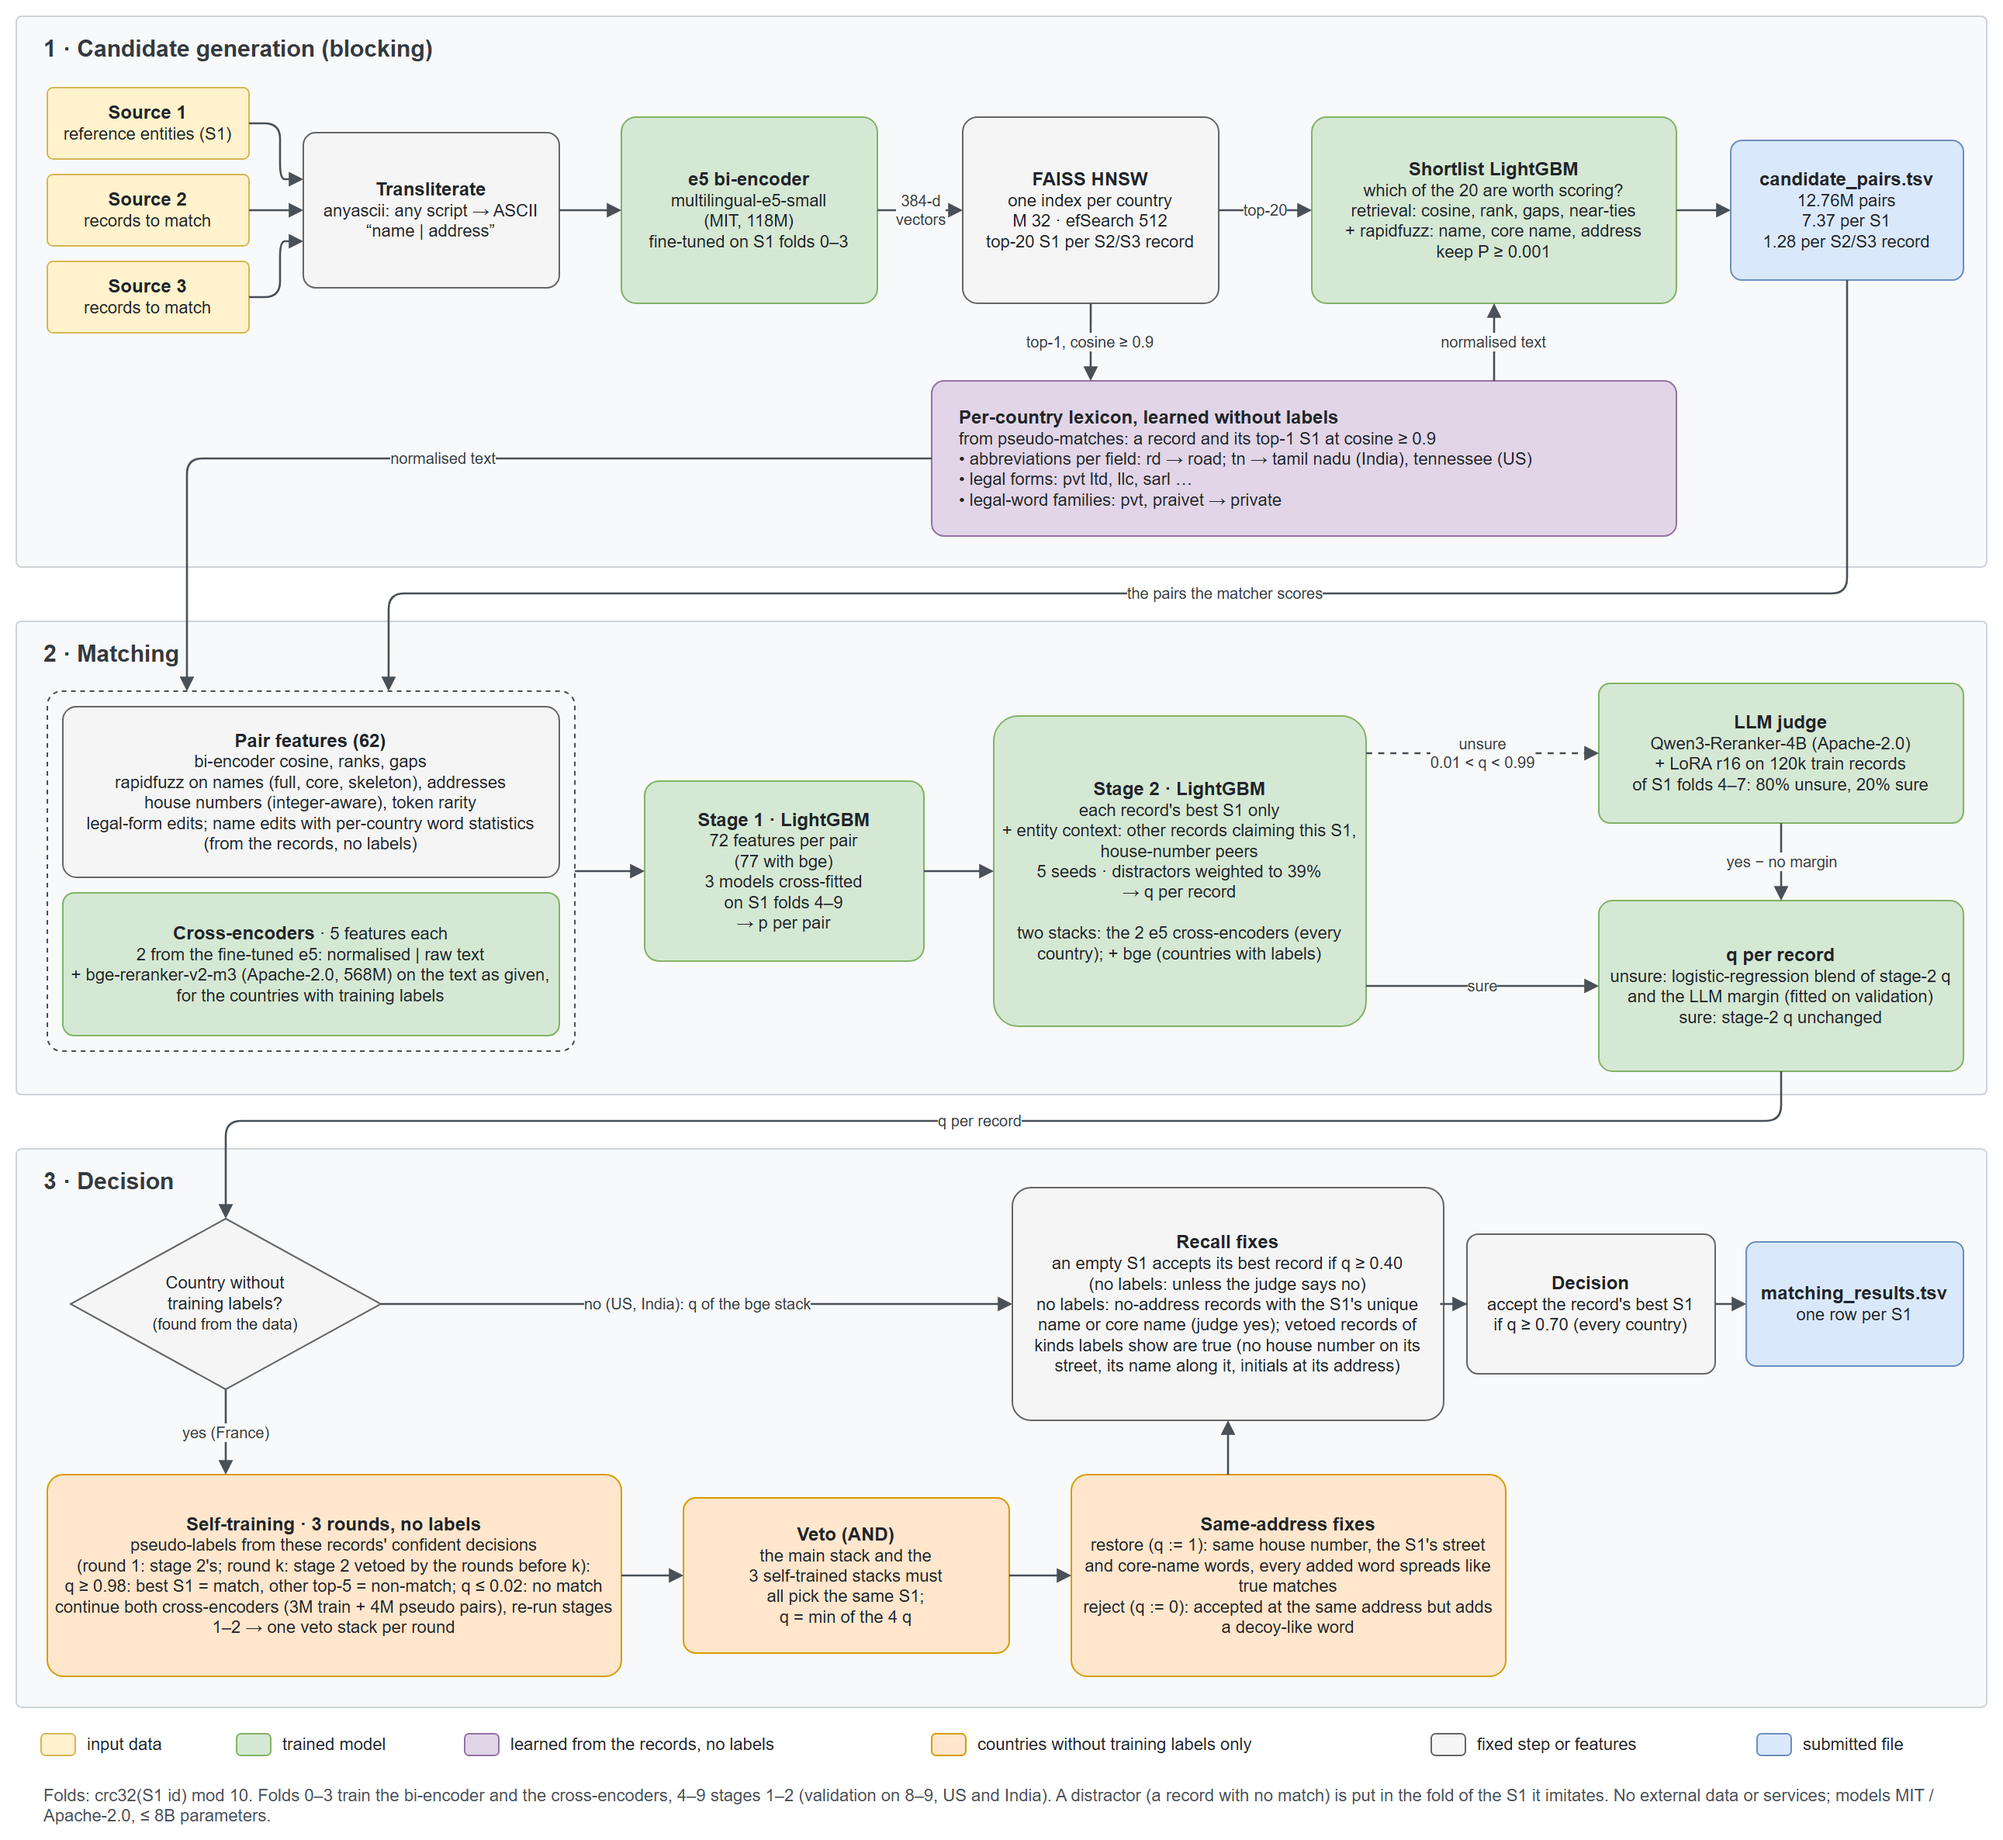
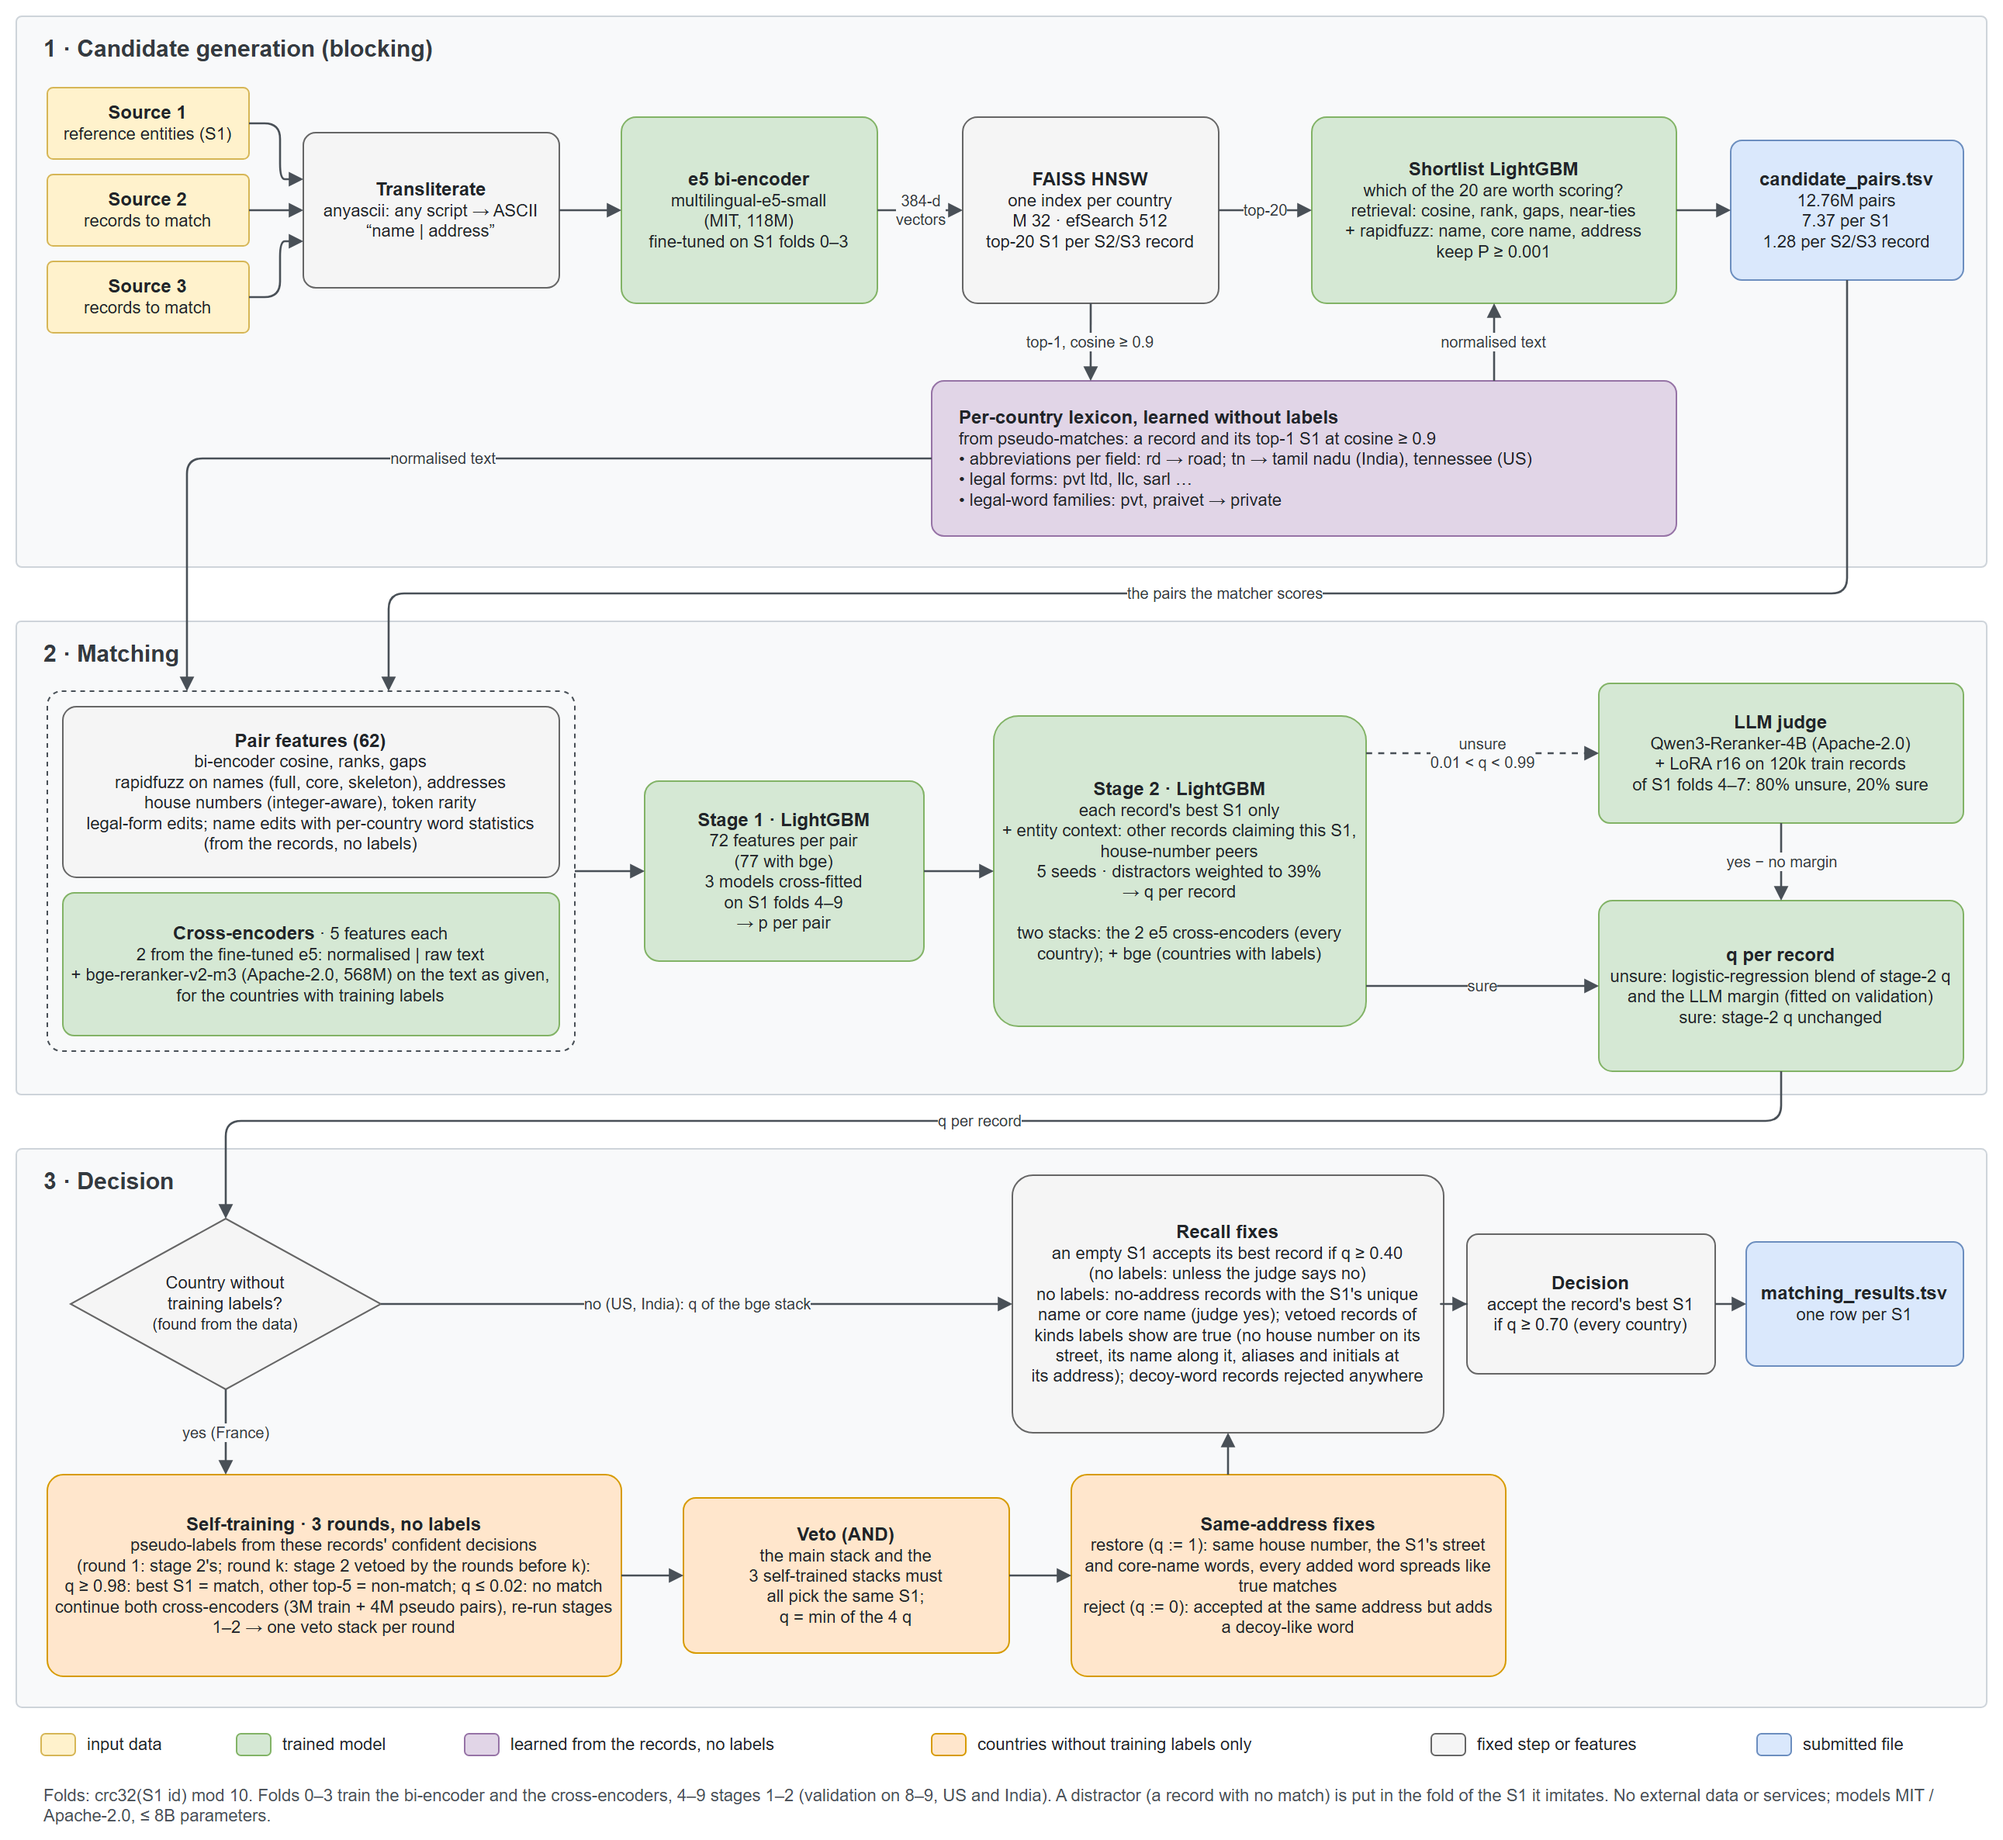
README, documentation and figure for C8 (leaderboard 0.99091): aliases, initials, decoy-word rejects

Changed region(s): [[0.4957, 0.6551, 0.7126, 0.7799]]

diff --git a/ber/Documentation_template.md b/ber/Documentation_template.md
@@ -17,8 +17,9 @@ training labels), and a LoRA-tuned 4B reranker judges the unsure records. France
 three self-training rounds, used only as vetoes, and label-free fixes derived from how the data places decoys at house
 numbers. Last, recall fixes fill S1s left empty and, for France, restore records the self-training vetoes rejected where the
 labelled countries show that kind of record is almost always a true match (no address or no house number with the S1's
-unique name or street, the exact name further along the S1's street, initials at its address). Macro F0.5 is **0.9930
-on US / India validation** and **0.99084 on the public leaderboard**.
+unique name or street, the exact name further along the S1's street, made-up aliases and initials at its address),
+and reject records adding a decoy word away from the S1's address. Macro F0.5 is **0.9930 on US / India validation**
+and **0.99091 on the public leaderboard**.
 
 ---
 
@@ -174,6 +175,7 @@ about. We kept P ≥ 0.001.
 | Same-address fixes (countries without labels) | label-free census: each S1 gets a roughly fixed number of decoys, normally at one shifted number, so a decoy placed at the S1's *own* address leaves that shifted cluster short. For every word records add at the S1's address, we compare how many of the S1's records sit at other numbers, between those records and unedited ones (total variation distance TV). **True-like** (TV ≤ 0.10): a structurally matching record (same number and sub-number, the S1's distinctive street words, first and rarest core-name word) adding only such words is restored. **Decoy-like** (TV ≥ 0.20): an accepted same-address record adding one is rejected | the test records' own structure. On US / India validation, TV ≤ 0.10 words are 98.7% / 90.8% true and TV ≥ 0.20 words 22.5% true (India) |
 | Recall fixes | **Empty S1s:** an S1 with no accepted record takes its best candidate if q ≥ 0.40 (every country; for the countries without labels only if the LLM judge does not say no, since the candidates it rejects there are mostly a type word swapped at the S1's own address). **No-address records (countries without labels):** a rejected record with no address whose normalised name equals its S1's and no other S1's of the country, and that the judge accepts, is restored | US / India validation: the empty-S1 rule +0.00007 at 0.40; every threshold from 0.4 to 0.65 gains when cross-fitted over the two validation folds. No-address records with the S1's exact, unique name: US / India models accept 93–97%, France's 84% (its self-training vetoes learned "no address = reject") |
 | Recall fixes: vetoed records | **Countries without labels:** a record the main stack accepts and a self-trained stack vetoes is restored when it is one of these kinds: an address without a house number on the S1's street or with a name no other S1 has (judge margin ≥ 2); the S1's exact name at another number of its street (judge yes), unless another candidate S1 sits 1–13 numbers below it there; at the S1's exact address, the only S1 there, a name that adds no word (initials, a website, dropped words). Also a no-address record with the S1's core name that no other S1 has (judge yes) | On US / India validation these kinds are 89–100% true and the models accept them; a same-name record sitting 1–13 numbers above another candidate S1 is that S1's decoy (0% true), and the model's own rejections of these kinds are 75–99% wrong records, so only vetoes are undone. France: +2,916 matches, leaderboard 0.990807 → 0.99084 |
+| Recall fixes: aliases, initials, decoy words | **Countries without labels,** at the S1's exact address with no other S1 there: a made-up name sharing nothing with the S1's (a word of 4+ letters in no S1 name) when the main stack's q ≥ 0.80, or q ≥ 0.10 with at most 2 made-up names at the S1; the S1's initials even where the main stack rejected them. And a record adding a decoy-like word of the census is rejected at any position, not only at the S1's house number | US / India validation: such aliases are 97–99.8% true at q ≥ 0.8, ~90% at 0.1–0.8 with the guard, 0% below 0.1; initials at the exact address 100%; decoy-like words ~22%. France: +392 restores, −157 rejects; leaderboard 0.99084 → 0.99091 |
 
 The same-address fixes and the no-address restores run only where labels are missing. Where labels exist, the models
 already get these records right, and the same-address fixes would cost India 0.0024 (checked with labels).
@@ -191,7 +193,7 @@ singletons) gained +0.00000, and an expected-F0.5 decision per S1 gained +0.0000
 - **F_0.5 Score (macro):**
     - validation (US / India): **0.9930** with the bge stack, the LLM judge and the empty-S1 rule (0.99294 without the
       rule; 0.99282 for the two-cross-encoder stack with the judge; 0.99262 for its stage 2 alone);
-    - public leaderboard: **0.99084**.
+    - public leaderboard: **0.99091**.
     - France has no labels. If US / India score on the leaderboard about as on validation, the leaderboard implies a
       France F0.5 of roughly 0.98.
 
@@ -233,7 +235,8 @@ pairs) or lost to another S1 as the record's best (0.84%) are not in it.
       `EL`). The recall fixes restored 2,508 such records and filled 344 empty France S1s (923 in US / India); with the
       bge stack for US / India, the leaderboard rose from 0.990349 to 0.990807. Restoring vetoed records of the kinds
       above (no house number on the S1's street, the exact name along its street, initials at its address) and
-      no-address records with a unique core name added 2,916 France matches: **0.99084**.
+      no-address records with a unique core name added 2,916 France matches: 0.99084. Made-up aliases and initials at
+      the S1's exact address (+392) and decoy-word records rejected away from it (−157): **0.99091**.
 
 The largest remaining loss (+0.00208) is information-limited: the missing address cannot be recovered, and per-bucket
 thresholds did not help. For scale, fixing all three error types in the table gives about 0.9957; that is not an
@@ -278,7 +281,7 @@ AMLC_ROOT=/folder/with/student_resource GPU_A=0 GPU_B=1 GPU_C=2 bash reproduce.s
 | Stage 1 (cross-fitted); stage 2 with entity context and peers | `stage1_cv.py`, `x_stage_multi.py`, `stage2.py`, `x_nocopy.py`, `decide.py` |
 | LLM judge and blend | `x_llm.py`, `x_llmstack.py` |
 | Same-address fixes (countries without labels) | `x_anatomy.py`, `wstat.py`, `rule_fr.py`, `x_ddfix.py` |
-| Recall fixes (empty S1s; no-address records; vetoed records of safe kinds) | `x_recall.py` |
+| Recall fixes (empty S1s; no-address records; vetoed records of safe kinds; aliases, initials; decoy words) | `x_recall.py` |
 | Vetoes, fixes, threshold → the two TSV files | `x_final.py` |
 
 - **Hardware and time:** three A100 80GB GPUs (one works; lanes share it), ~64 CPU cores, ~250 GB RAM; about 9–10 h
@@ -313,7 +316,8 @@ AMLC_ROOT=/folder/with/student_resource GPU_A=0 GPU_B=1 GPU_C=2 bash reproduce.s
 | v10_fr3_llm_dd | + same-address census fixes | = | 0.99028 |
 | variant_v10seed_dd | France rounds seeded from the main stack itself; judge on every unsure record | 0.99282² | 0.99035 |
 | E16fr3 | + bge cross-encoder for the countries with labels; recall fixes (empty S1s, no-address records) | 0.9930² | 0.990807 |
-| **submitted** | + France recall fixes for vetoed records of safe kinds, unique core names (Section 4) | **0.9930²** | **0.99084** |
+| C4 | + France recall fixes for vetoed records of safe kinds, unique core names (Section 4) | 0.9930² | 0.99084 |
+| **submitted** | + aliases and initials at the S1's exact address; decoy-word records rejected anywhere (Section 4) | **0.9930²** | **0.99091** |
 
 ¹ With duplicated distractors (inflated). ² The harder validation set (each distractor in its S1's fold).
 

diff --git a/ber/README.md b/ber/README.md
@@ -1,7 +1,7 @@
 # Business Entity Resolution
 
 Match every Source 2 / Source 3 record to the Source 1 (reference) entity it belongs to, scored by macro F0.5.
-This folder holds only the code that builds our submitted file (**leaderboard 0.99084**) and `reproduce.sh`, which
+This folder holds only the code that builds our submitted file (**leaderboard 0.99091**) and `reproduce.sh`, which
 runs it end to end from the provided data.
 
 ## Pipeline
@@ -70,6 +70,14 @@ country or a language.
      US / India); at the S1's exact address, the only S1 there, a name that adds no word (initials, a website, dropped
      words). Also no-address records with the S1's core name (legal form differs) that no other S1 has, judge yes.
      France: 1,182 + 563 + 161 + 1,078 restores (+2,916 matches), leaderboard +0.00003.
+   - *Aliases and initials at the S1's exact address, countries without labels* (the only S1 there): a made-up name
+     sharing nothing with the S1's name (a word of 4+ letters in no S1 name of any country: the generator's
+     unrelated-DBA noise) when the main stack's q ≥ 0.80, or q ≥ 0.10 with at most 2 made-up names at the S1 (US /
+     India validation 97–99.8% / ~90% true; below 0.10 they are 0% true); and the S1's initials there even where the
+     main stack rejected them (US / India: 100% true). France: 336 aliases, 56 more initials.
+   - *Decoy words anywhere, countries without labels* (`reject_decword`): a record adding a decoy-like word of the
+     census (step 8: the same-building type-word swap, ~22% true on US / India) is rejected at any position, not only
+     at the S1's house number (157 France matches). With these two, the leaderboard rose from 0.99084 to 0.99091.
 10. **Decision** (`x_final.py`): accept a record when its score is ≥ 0.70, the same threshold for every country.
 
 Folds: `crc32(S1 id) % 10`; 0–3 train the bi-encoder and the cross-encoders, 4–9 stages 1 and 2; stage 2 is validated
@@ -80,7 +88,8 @@ on entity folds 8–9 after fitting on 4–7 (US / India validation F0.5 0.99294
 
 | File | Score |
 |---|---|
-| **C4** (submitted; this pipeline) | **0.99084** |
+| **C8** (submitted; this pipeline) | **0.99091** |
+| C4 (without the alias, initials and decoy-word lists of step 9) | 0.99084 |
 | E16fr3 (without the vetoed-record and core-name lists of step 9) | 0.990807 |
 | variant_v10seed_dd (without the bge stack and the recall fixes) | 0.990349 |
 | v10_fr3_llm_dd (France rounds seeded from two older stacks, since removed) | 0.990282 |
